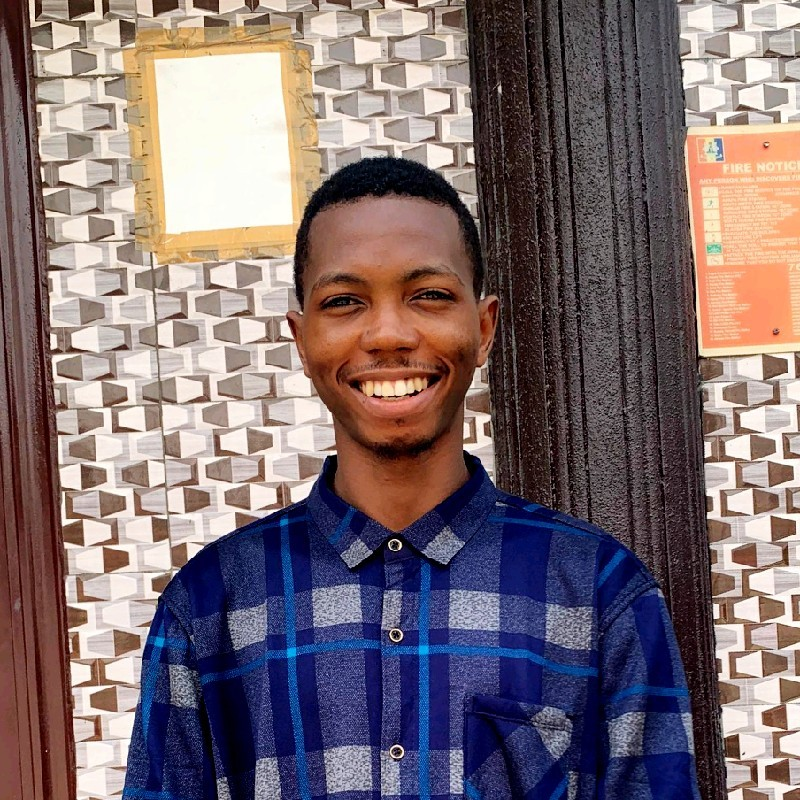
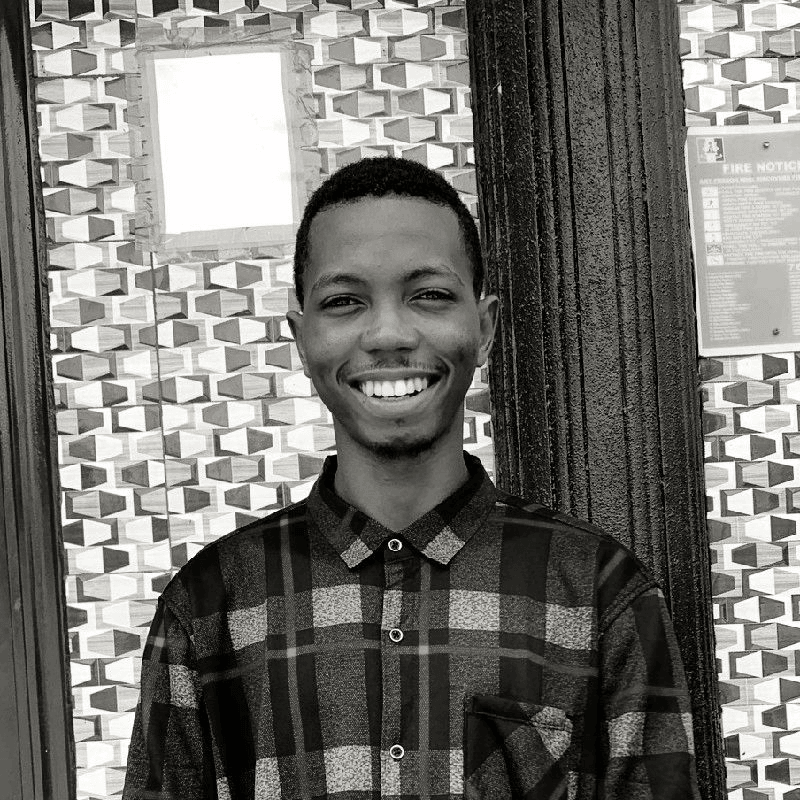
Add comprehensive SEO and AI/answer-engine optimization
Technical SEO:
- Expand metadata: metadataBase, canonical, title template, robots
  directives (max-image-preview:large, max-snippet:-1), authors,
  keywords, Open Graph (profile) and Twitter summary_large_image.
- Add app-router sitemap.ts, robots.ts, and web manifest.ts
  (theme/background color matched to the washi palette).
- Add JSON-LD structured data (@graph): Person, WebSite, ProfilePage —
  the primary signal for Google rich results and AI answer engines.

AI SEO (AEO/GEO):
- robots.ts explicitly allows AI crawlers (GPTBot, OAI-SearchBot,
  ClaudeBot, PerplexityBot, Google-Extended, Applebot-Extended, CCBot,
  Amazonbot, cohere-ai, etc.).
- Add public/llms.txt: a machine-readable profile summary for LLMs.

Assets:
- Generate a branded 1200x630 OG/Twitter image via next/og
  (opengraph-image.tsx + twitter-image.tsx), on-brand paper/ink/vermilion.
- Bake a warm monochrome tone into ola_pic.png to match the minimalist
  palette and drop the now-redundant CSS grayscale filter.

Claude-Session: https://claude.ai/code/session_01HvURmUdGCRG9uZDGnSHF1B

diff --git a/app/layout.tsx b/app/layout.tsx
@@ -1,17 +1,139 @@
 import type { Metadata } from "next";
 import "./globals.css";
 
+const SITE_URL = "https://olaportfolio.vercel.app";
+const NAME = "Olatunde Adegboyebo";
+const ROLE = "Full Stack & Backend Engineer";
+const DESCRIPTION =
+  "Olatunde Adegboyebo is a Full Stack & Backend Engineer specializing in scalable APIs, distributed systems, databases, and cloud infrastructure with Node.js, TypeScript, PostgreSQL, and Docker. Based in Lagos, Nigeria — working globally.";
+
 export const metadata: Metadata = {
-  title: "Olatunde Adegboyebo — Full Stack & Backend Engineer",
-  description:
-    "Full Stack & Backend Engineer specializing in scalable APIs, distributed systems, databases, and cloud infrastructure with Node.js, TypeScript, PostgreSQL, and Docker. Based in Lagos, Nigeria.",
-  keywords: ["Full Stack Developer", "Backend Engineer", "Node.js", "TypeScript", "PostgreSQL", "APIs", "System Design"],
-  openGraph: {
-    title: "Olatunde Adegboyebo — Full Stack & Backend Engineer",
-    description: "Building reliable, scalable systems that ship to production.",
-    type: "website",
-    url: "https://olaportfolio.vercel.app",
+  metadataBase: new URL(SITE_URL),
+  title: {
+    default: `${NAME} — ${ROLE}`,
+    template: `%s — ${NAME}`,
   },
+  description: DESCRIPTION,
+  applicationName: `${NAME} Portfolio`,
+  authors: [{ name: NAME, url: SITE_URL }],
+  creator: NAME,
+  publisher: NAME,
+  keywords: [
+    "Olatunde Adegboyebo",
+    "Full Stack Engineer",
+    "Backend Engineer",
+    "Backend Developer Lagos",
+    "Node.js Developer",
+    "TypeScript Engineer",
+    "PostgreSQL",
+    "REST API Developer",
+    "System Design",
+    "Software Engineer Nigeria",
+    "Docker",
+    "AWS",
+    "Next.js Developer",
+  ],
+  category: "technology",
+  alternates: {
+    canonical: "/",
+  },
+  robots: {
+    index: true,
+    follow: true,
+    googleBot: {
+      index: true,
+      follow: true,
+      "max-image-preview": "large",
+      "max-snippet": -1,
+      "max-video-preview": -1,
+    },
+  },
+  openGraph: {
+    type: "profile",
+    firstName: "Olatunde",
+    lastName: "Adegboyebo",
+    username: "tundx0",
+    gender: "male",
+    title: `${NAME} — ${ROLE}`,
+    description: "Building reliable, scalable backend systems that ship to production.",
+    url: SITE_URL,
+    siteName: `${NAME} — Portfolio`,
+    locale: "en_US",
+  },
+  twitter: {
+    card: "summary_large_image",
+    title: `${NAME} — ${ROLE}`,
+    description: "Building reliable, scalable backend systems that ship to production.",
+    creator: "@TundeAlex1",
+  },
+  icons: {
+    icon: "/favicon.ico",
+  },
+};
+
+const jsonLd = {
+  "@context": "https://schema.org",
+  "@graph": [
+    {
+      "@type": "Person",
+      "@id": `${SITE_URL}/#person`,
+      name: NAME,
+      givenName: "Olatunde",
+      familyName: "Adegboyebo",
+      url: SITE_URL,
+      image: `${SITE_URL}/ola_pic.png`,
+      jobTitle: ROLE,
+      description: DESCRIPTION,
+      email: "mailto:tundx0@gmail.com",
+      worksFor: {
+        "@type": "Organization",
+        name: "Wellnite Inc.",
+      },
+      address: {
+        "@type": "PostalAddress",
+        addressLocality: "Lagos",
+        addressCountry: "NG",
+      },
+      knowsAbout: [
+        "Backend Engineering",
+        "Full Stack Development",
+        "Node.js",
+        "TypeScript",
+        "PostgreSQL",
+        "REST APIs",
+        "GraphQL",
+        "System Design",
+        "Docker",
+        "AWS",
+        "Cloud Infrastructure",
+        "Solidity",
+        "Smart Contracts",
+      ],
+      sameAs: [
+        "https://github.com/tundx0",
+        "https://www.linkedin.com/in/olatunde-adegboyebo",
+        "https://twitter.com/TundeAlex1",
+      ],
+    },
+    {
+      "@type": "WebSite",
+      "@id": `${SITE_URL}/#website`,
+      url: SITE_URL,
+      name: `${NAME} — Portfolio`,
+      description: DESCRIPTION,
+      inLanguage: "en",
+      publisher: { "@id": `${SITE_URL}/#person` },
+    },
+    {
+      "@type": "ProfilePage",
+      "@id": `${SITE_URL}/#webpage`,
+      url: SITE_URL,
+      name: `${NAME} — ${ROLE}`,
+      isPartOf: { "@id": `${SITE_URL}/#website` },
+      about: { "@id": `${SITE_URL}/#person` },
+      inLanguage: "en",
+    },
+  ],
 };
 
 export default function RootLayout({
@@ -21,6 +143,12 @@ export default function RootLayout({
 }>) {
   return (
     <html lang="en">
+      <head>
+        <script
+          type="application/ld+json"
+          dangerouslySetInnerHTML={{ __html: JSON.stringify(jsonLd) }}
+        />
+      </head>
       <body className="antialiased">{children}</body>
     </html>
   );

diff --git a/app/opengraph-image.tsx b/app/opengraph-image.tsx
@@ -1,0 +1,117 @@
+import { ImageResponse } from "next/og";
+
+export const alt = "Olatunde Adegboyebo — Full Stack & Backend Engineer";
+export const size = { width: 1200, height: 630 };
+export const contentType = "image/png";
+
+const PAPER = "#f6f4ef";
+const INK = "#1c1a17";
+const INK_MUTED = "#8a847a";
+const ACCENT = "#a8412a";
+
+export default function OpengraphImage() {
+  return new ImageResponse(
+    (
+      <div
+        style={{
+          width: "100%",
+          height: "100%",
+          display: "flex",
+          flexDirection: "column",
+          justifyContent: "space-between",
+          backgroundColor: PAPER,
+          padding: "72px 80px",
+          fontFamily: "sans-serif",
+        }}
+      >
+        {/* Top row */}
+        <div
+          style={{
+            display: "flex",
+            alignItems: "center",
+            justifyContent: "space-between",
+          }}
+        >
+          <div style={{ display: "flex", alignItems: "center" }}>
+            <div
+              style={{
+                width: 18,
+                height: 18,
+                backgroundColor: ACCENT,
+                marginRight: 16,
+              }}
+            />
+            <div
+              style={{
+                fontSize: 26,
+                letterSpacing: 6,
+                color: INK,
+                fontWeight: 700,
+              }}
+            >
+              OLA
+            </div>
+          </div>
+          <div style={{ fontSize: 22, color: INK_MUTED, letterSpacing: 4 }}>
+            PORTFOLIO
+          </div>
+        </div>
+
+        {/* Center */}
+        <div style={{ display: "flex", flexDirection: "column" }}>
+          <div
+            style={{
+              display: "flex",
+              alignItems: "center",
+              marginBottom: 24,
+            }}
+          >
+            <div style={{ width: 48, height: 3, backgroundColor: ACCENT, marginRight: 20 }} />
+            <div style={{ fontSize: 24, color: INK_MUTED, letterSpacing: 8 }}>
+              HELLO
+            </div>
+          </div>
+          <div
+            style={{
+              fontSize: 96,
+              fontWeight: 700,
+              color: INK,
+              lineHeight: 1.05,
+              display: "flex",
+              flexDirection: "column",
+            }}
+          >
+            <span>Olatunde</span>
+            <span>Adegboyebo</span>
+          </div>
+          <div
+            style={{
+              fontSize: 34,
+              color: ACCENT,
+              marginTop: 28,
+            }}
+          >
+            Full Stack &amp; Backend Engineer
+          </div>
+        </div>
+
+        {/* Bottom row */}
+        <div
+          style={{
+            display: "flex",
+            alignItems: "center",
+            justifyContent: "space-between",
+            borderTop: `1px solid rgba(28,26,23,0.15)`,
+            paddingTop: 28,
+          }}
+        >
+          <div style={{ fontSize: 24, color: INK_MUTED }}>
+            olaportfolio.vercel.app
+          </div>
+          <div style={{ fontSize: 24, color: INK_MUTED }}>Lagos, Nigeria</div>
+        </div>
+      </div>
+    ),
+    { ...size }
+  );
+}

diff --git a/app/robots.ts b/app/robots.ts
@@ -1,0 +1,38 @@
+import type { MetadataRoute } from "next";
+
+const SITE_URL = "https://olaportfolio.vercel.app";
+
+export default function robots(): MetadataRoute.Robots {
+  return {
+    rules: [
+      {
+        // All standard search crawlers
+        userAgent: "*",
+        allow: "/",
+      },
+      {
+        // AI answer engines & LLM crawlers — explicitly welcomed so this
+        // site can be cited by ChatGPT, Claude, Perplexity, Gemini, etc.
+        userAgent: [
+          "GPTBot",
+          "OAI-SearchBot",
+          "ChatGPT-User",
+          "ClaudeBot",
+          "Claude-Web",
+          "anthropic-ai",
+          "PerplexityBot",
+          "Perplexity-User",
+          "Google-Extended",
+          "Applebot-Extended",
+          "CCBot",
+          "Bytespider",
+          "Amazonbot",
+          "cohere-ai",
+        ],
+        allow: "/",
+      },
+    ],
+    sitemap: `${SITE_URL}/sitemap.xml`,
+    host: SITE_URL,
+  };
+}

diff --git a/app/manifest.ts b/app/manifest.ts
@@ -1,0 +1,21 @@
+import type { MetadataRoute } from "next";
+
+export default function manifest(): MetadataRoute.Manifest {
+  return {
+    name: "Olatunde Adegboyebo — Full Stack & Backend Engineer",
+    short_name: "Olatunde A.",
+    description:
+      "Portfolio of Olatunde Adegboyebo, a Full Stack & Backend Engineer building scalable APIs and systems.",
+    start_url: "/",
+    display: "standalone",
+    background_color: "#f6f4ef",
+    theme_color: "#f6f4ef",
+    icons: [
+      {
+        src: "/favicon.ico",
+        sizes: "any",
+        type: "image/x-icon",
+      },
+    ],
+  };
+}

diff --git a/app/sitemap.ts b/app/sitemap.ts
@@ -1,0 +1,14 @@
+import type { MetadataRoute } from "next";
+
+const SITE_URL = "https://olaportfolio.vercel.app";
+
+export default function sitemap(): MetadataRoute.Sitemap {
+  return [
+    {
+      url: SITE_URL,
+      lastModified: new Date(),
+      changeFrequency: "monthly",
+      priority: 1,
+    },
+  ];
+}

diff --git a/components/Hero.tsx b/components/Hero.tsx
@@ -134,7 +134,7 @@ const Hero = () => {
                 src="/ola_pic.png"
                 alt="Olatunde Adegboyebo"
                 fill
-                className="object-cover grayscale-[15%]"
+                className="object-cover"
                 priority
               />
             </div>

diff --git a/components/About.tsx b/components/About.tsx
@@ -40,7 +40,7 @@ const About = () => {
                 src="/ola_pic.png"
                 alt="Olatunde Adegboyebo"
                 fill
-                className="object-cover grayscale-[15%]"
+                className="object-cover"
               />
             </div>
           </div>

diff --git a/app/twitter-image.tsx b/app/twitter-image.tsx
@@ -1,0 +1,1 @@
+export { default, alt, size, contentType } from "./opengraph-image";
